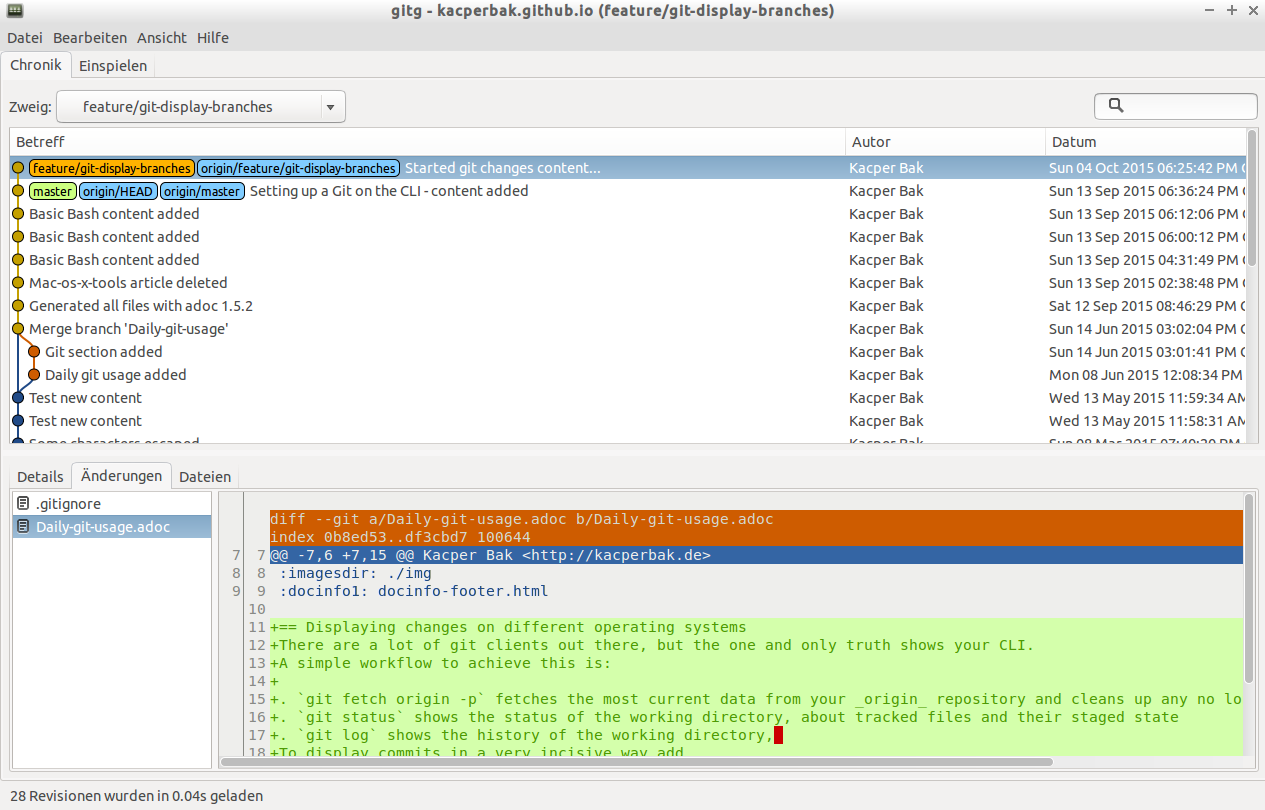
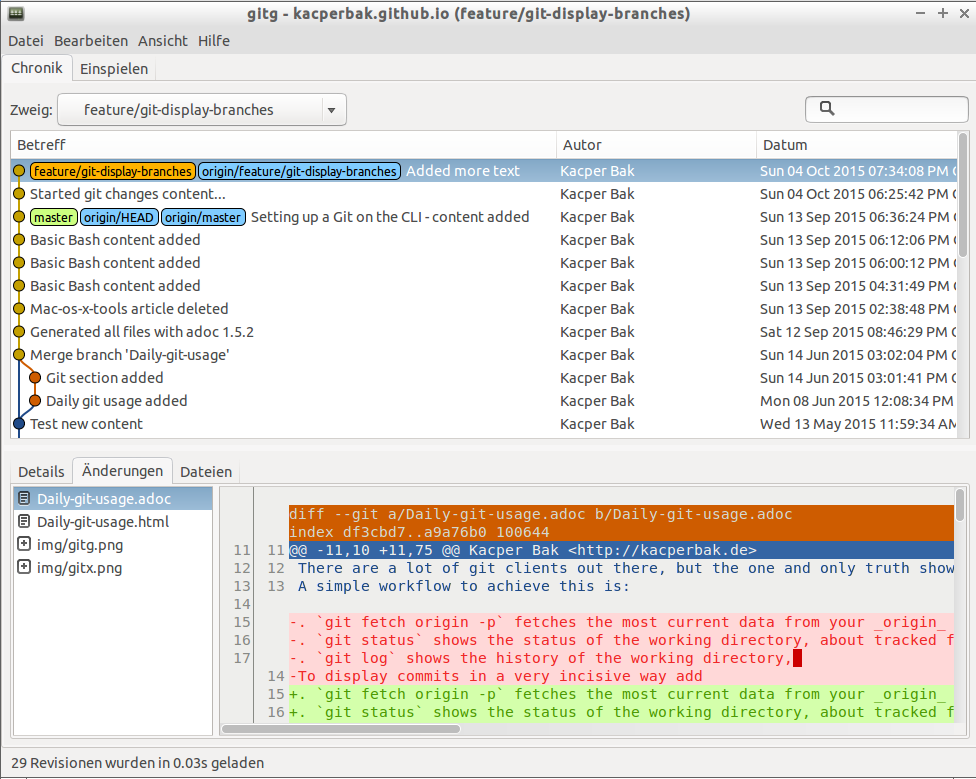
Examples replaced, text emphasized

diff --git a/Daily-git-usage.html b/Daily-git-usage.html
@@ -432,13 +432,13 @@ body.book #toc,body.book #preamble,body.book h1.sect0,body.book .sect1>h2{page-b
 <h2 id="_displaying_changes_on_different_operating_systems">Displaying changes on different operating systems</h2>
 <div class="sectionbody">
 <div class="paragraph">
-<p>There are a lot of git clients out there, but the one and only truth shows your CLI.
+<p>There are a lot of git clients out there, but the one and only <strong>truth</strong> shows your CLI.
 A simple workflow to achieve this is:</p>
 </div>
 <div class="olist arabic">
 <ol class="arabic">
 <li>
-<p><code>git fetch origin -p</code> fetches the most current data from your <em>origin</em> repository and cleans up any no longer existing references.</p>
+<p><code>git fetch origin -p</code> fetches the most current data from your <code>origin</code> repository and cleans up any no longer existing references.</p>
 </li>
 <li>
 <p><code>git status</code> shows the status of the working directory, about tracked files and their staged state.</p>
@@ -450,7 +450,14 @@ A simple workflow to achieve this is:</p>
 </div>
 <div class="literalblock">
 <div class="content">
-<pre>commit 174b974b227f09a06ee3323aecc3fdbc803c7a2b
+<pre>bakka$ git log
+commit 45e9143531ef8d9a67845fcf62904b93ece34658
+Author: Kacper Bak &lt;github@kacperbak.de&gt;
+Date:   Sun Oct 4 19:34:08 2015 +0200
+
+    Added more text
+
+commit 174b974b227f09a06ee3323aecc3fdbc803c7a2b
 Author: Kacper Bak &lt;github@kacperbak.de&gt;
 Date:   Sun Oct 4 18:25:42 2015 +0200
 
@@ -462,12 +469,6 @@ Date:   Sun Sep 13 18:36:24 2015 +0200
 
     Setting up a Git on the CLI - content added
 
-commit 886b9be12984bd0733eee2f7c7c1527201756dc9
-Author: Kacper Bak &lt;github@kacperbak.de&gt;
-Date:   Sun Sep 13 18:12:06 2015 +0200
-
-    Basic Bash content added
-
 ...</pre>
 </div>
 </div>
@@ -477,6 +478,7 @@ Date:   Sun Sep 13 18:12:06 2015 +0200
 <div class="literalblock">
 <div class="content">
 <pre>bakka$ git log --oneline
+45e9143 Added more text
 174b974 Started git changes content...
 d49d549 Setting up a Git on the CLI - content added
 886b9be Basic Bash content added</pre>
@@ -488,7 +490,8 @@ d49d549 Setting up a Git on the CLI - content added
 <div class="literalblock">
 <div class="content">
 <pre>bakka$ git log --graph --decorate --oneline
-* 174b974 (HEAD, origin/feature/git-display-branches, feature/git-display-branches) Started git changes content...
+* 45e9143 (HEAD, origin/feature/git-display-branches, feature/git-display-branches) Added more text
+* 174b974 Started git changes content...
 * d49d549 (origin/master, origin/HEAD, master) Setting up a Git on the CLI - content added
 * 886b9be Basic Bash content added
 * 411434b Basic Bash content added
@@ -504,7 +507,7 @@ d49d549 Setting up a Git on the CLI - content added
 </div>
 </div>
 <div class="paragraph">
-<p>It is always nice to have a more sophisticated UI, just be aware that those tools might not always show the current state of your working directory.
+<p>It is always nice to have a more sophisticated UI, just be aware that those tools might <strong>not always</strong> show the current state of your working directory.
 Two light weight ones are <a href="https://wiki.gnome.org/Apps/Gitg/">gitg</a> (for Ubuntu) or <a href="https://github.com/pieter/gitx/wiki">gitx</a> (for Mac OS X) both can be simple started directly from your working directory by hitting its name.</p>
 </div>
 <div class="literalblock">
@@ -620,7 +623,7 @@ Simple follow the links to achieve the wanted result:</p>
 </div>
 <div id="footer">
 <div id="footer-text">
-Last updated 2015-10-04 19:32:36 CEST
+Last updated 2015-10-04 19:44:52 CEST
 </div>
 <div style="color: #dddddd">
 <a href="https://twitter.com/KacperBak" class="twitter-follow-button" data-show-count="false" data-size="large">Follow @KacperBak</a>
